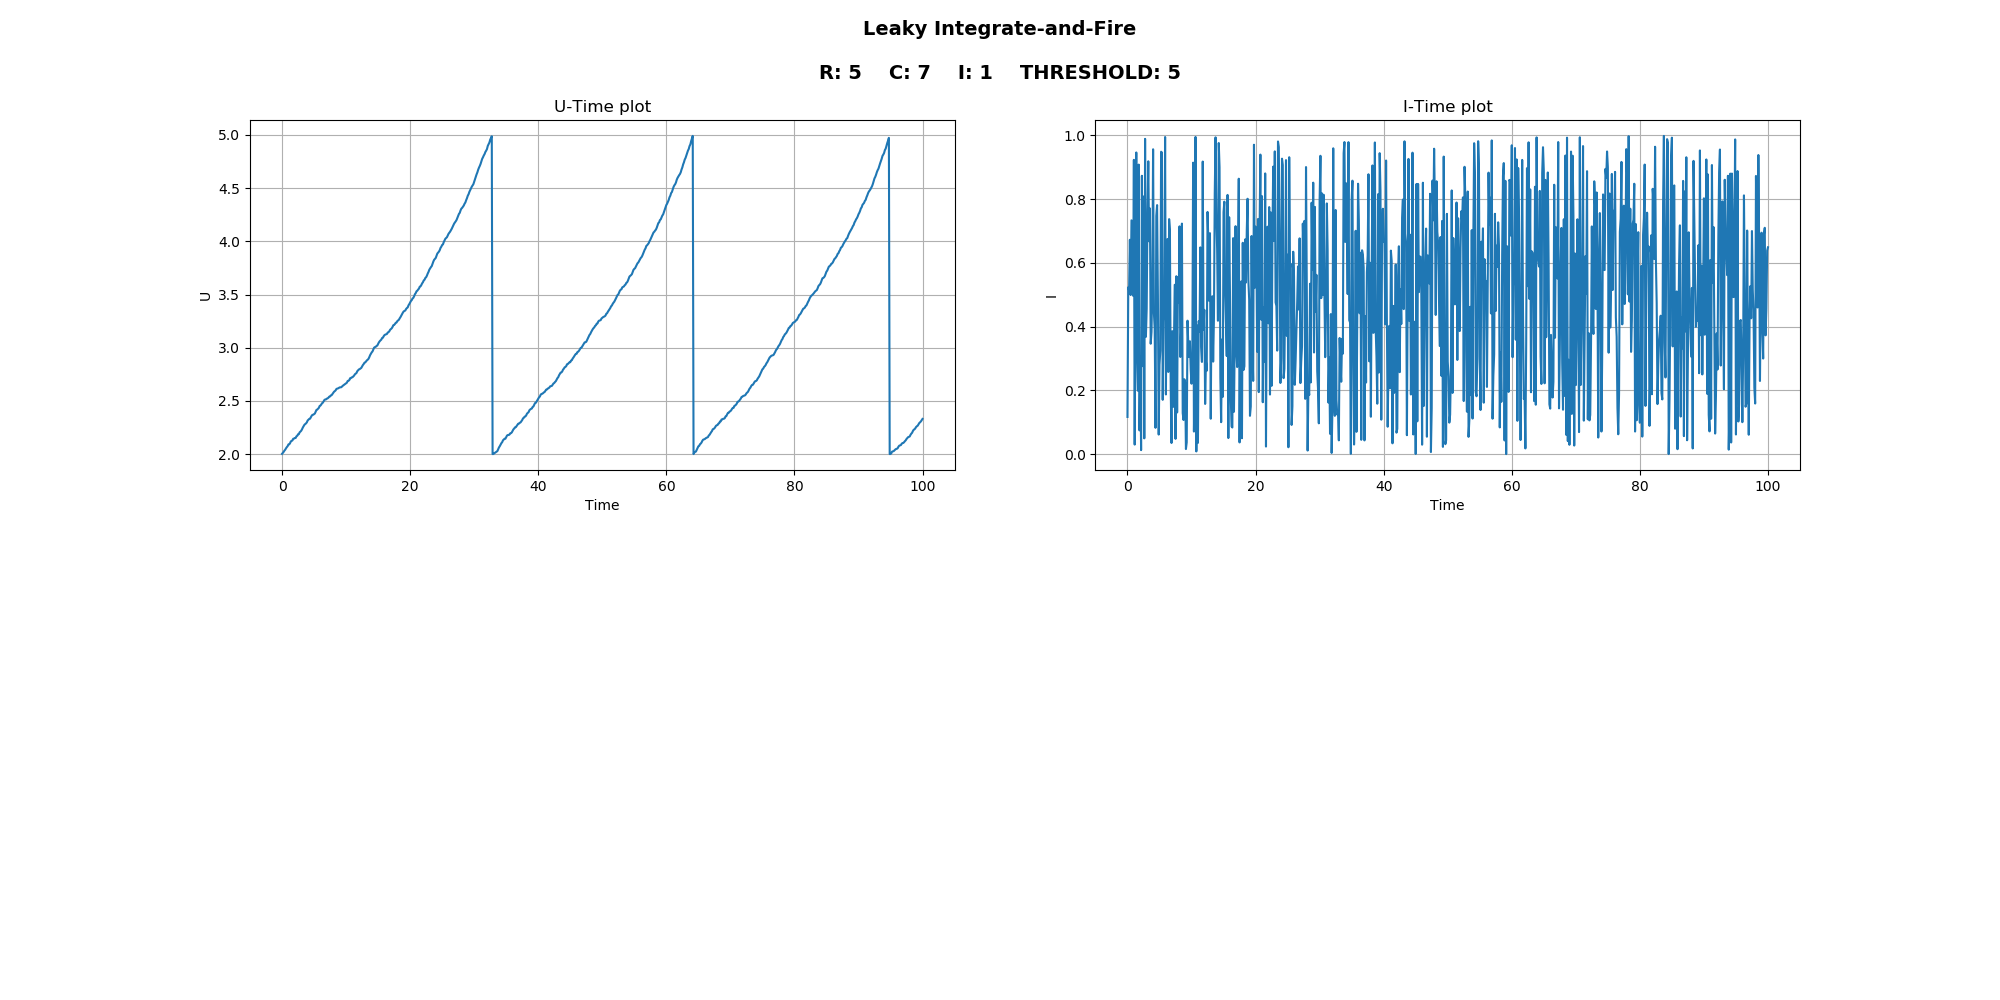
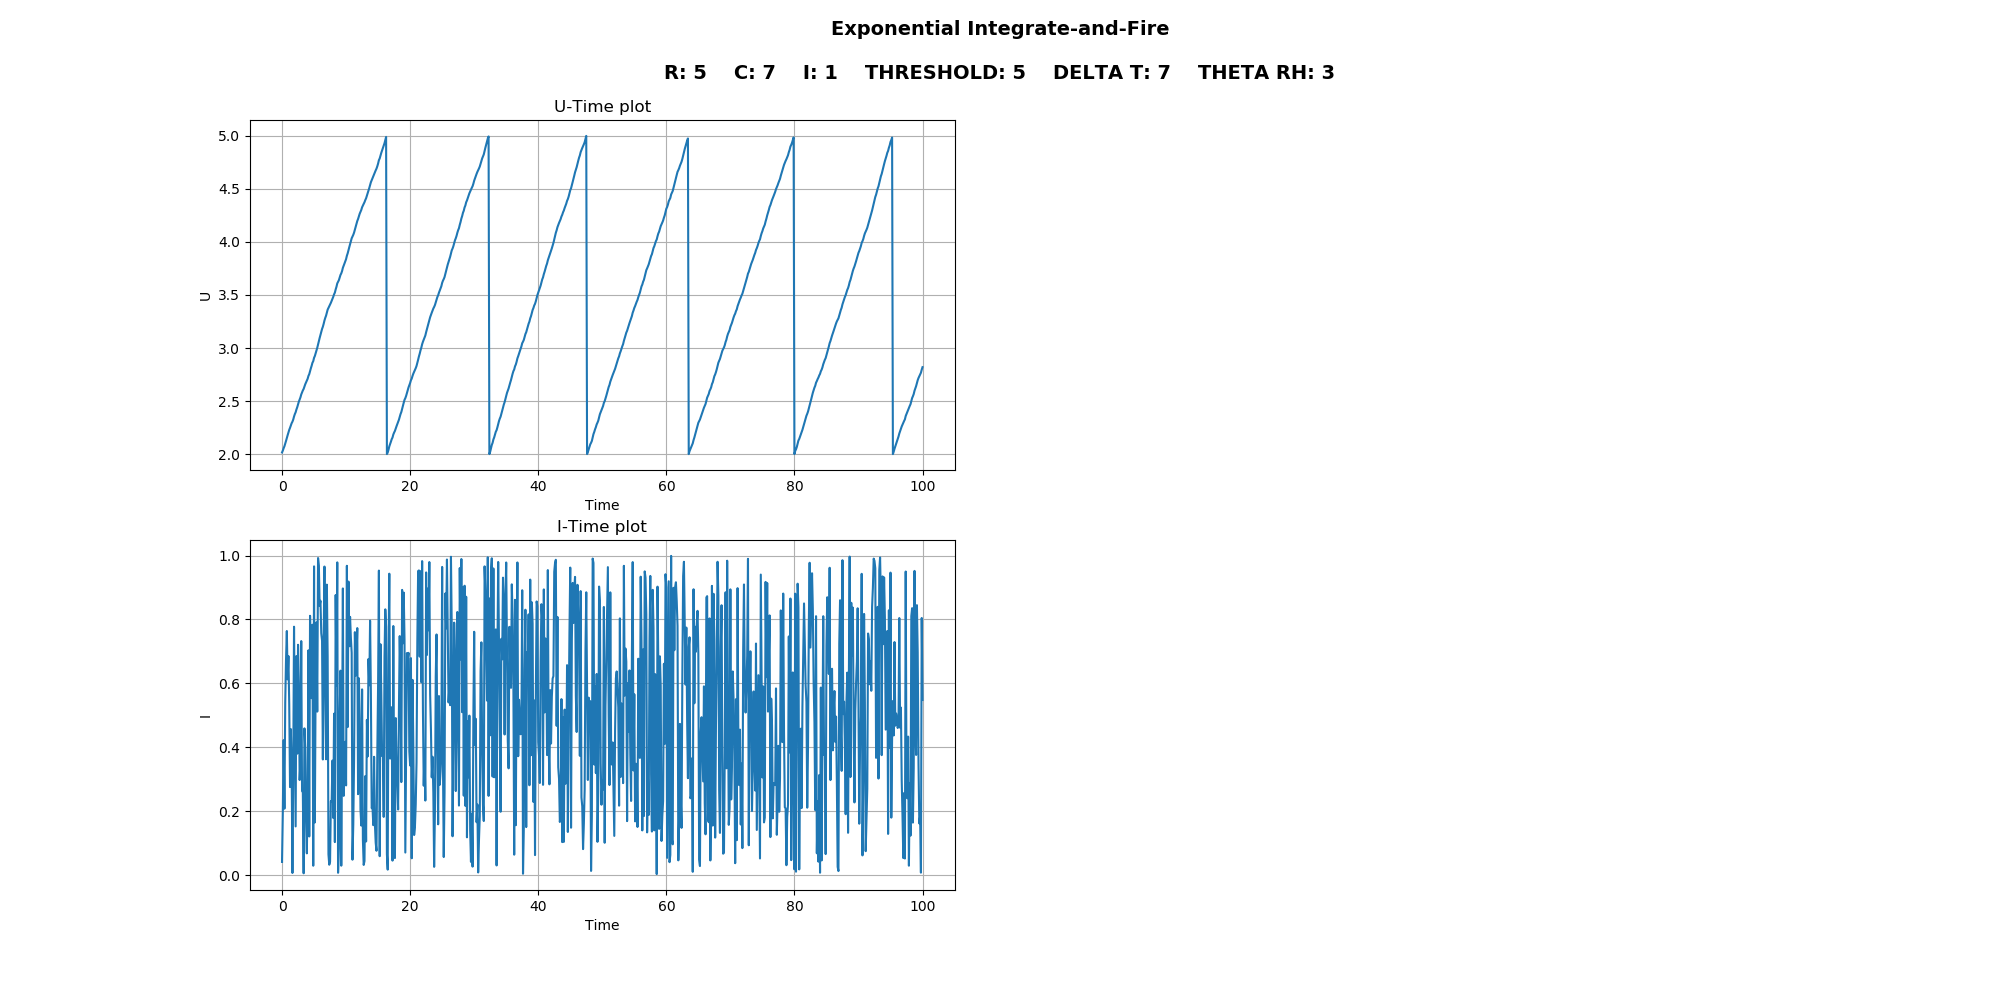
exp f i fix

diff --git a/Exponential Leaky Integrate-and-Fire.py b/Exponential Leaky Integrate-and-Fire.py
@@ -16,63 +16,81 @@ def i_random(x, i):
 
 def explif(time=100, steps=0.125, i_function=i_interval, u_rest=0, r=1, c=10, i=5, threshold=2, delta_t=2, theta_rh=2,
            f_i_plot=False,
-           save_name="ELIF"):
+           save_name="none",
+           draw_plot=True):
     timer = np.arange(0, time + steps, steps)
     tm = r * c
     u = [u_rest] * len(timer)
     dt = steps
     i_input = [i_function(j, i) for j in timer]
 
+    spike_t = time
+    current_spike_time = 0
+
     # ELIF Model -> NEURONAL DYNAMICS [Wulfram_Gerstner,_Werner_M_Kistle] page 124
     for j in range(len(timer)):
         u[j] = u[j - 1] + (-u[j - 1] + r * i_input[j] + delta_t * math.exp((u[j - 1] - theta_rh) / delta_t)) / tm * dt
         if u[j] >= threshold or u[j] < u_rest:
             u[j] = u_rest
+            prev_spike_time = current_spike_time
+            current_spike_time = timer[j]
+            spike_t = min(spike_t, current_spike_time - prev_spike_time)
 
     # plotting
-    fig = figure(num=None, figsize=(20, 10))
-    fig.suptitle('Leaky Integrate-and-Fire\n\n' + "R: " + str(r) + "    C: " + str(c) + "    I: " + str(
-        i) + "    THRESHOLD: " + str(threshold), fontsize=14, fontweight='bold')
-    subplot(221)
-    plot(timer, u)
-    ylabel('U')
-    xlabel('Time')
-    title('U-Time plot')
-    grid(True)
-
-    subplot(222)
-    plot(timer, i_input)
-    ylabel('I')
-    xlabel('Time')
-    title('I-Time plot')
-    grid(True)
-
-    if f_i_plot:
-        i_x = np.arange(0, 5, 0.125)
-        i_y = [0] * len(i_x)
-        for j in range(len(i_x)):
-            try:
-                i_y[j] = 1 / (-1 * tm * (math.log(1 - (threshold - u_rest) / (r * j))))
-            except:
-                i_y[j] = 0
-        subplot(223)
-        plot(i_x, i_y)
-        ylabel('F')
-        xlabel('I')
-        title('F-I plot')
+    if draw_plot:
+        fig = figure(num=None, figsize=(20, 10))
+        fig.suptitle('Exponential Integrate-and-Fire\n\n' + "R: " + str(r) + "    C: " + str(c) + "    I: " + str(i)
+                     + "    THRESHOLD: " + str(threshold) + "    DELTA T: " + str(delta_t)
+                     + "    THETA RH: " + str(theta_rh),
+                     fontsize=14, fontweight='bold')
+        subplot(221)
+        plot(timer, u)
+        ylabel('U')
+        xlabel('Time')
+        title('U-Time plot')
         grid(True)
-    savefig('figures/{}.png'.format(save_name))
-    show()
+
+        subplot(223)
+        plot(timer, i_input)
+        ylabel('I')
+        xlabel('Time')
+        title('I-Time plot')
+        grid(True)
+
+        if f_i_plot:
+            i_x = np.arange(0, 5, 0.125)
+            i_y = [0] * len(i_x)
+            for j in range(len(i_x)):
+                try:
+                    i_y[j] = 1/ explif(time=time, steps=steps, i_function=i_function, u_rest=u_rest, r=r, c=c,
+                                        i=i_x[j],
+                                        threshold=threshold, delta_t=delta_t, theta_rh=theta_rh, f_i_plot=False,
+                                        save_name="none",
+                                        draw_plot=False)
+                except:
+                    i_y[j] = 0
+            subplot(222)
+            plot(i_x, i_y)
+            ylabel('F')
+            xlabel('I')
+            title('F-I plot')
+            grid(True)
+        if save_name != 'none':
+            savefig('figures/{}.png'.format(save_name))
+        show()
+
+    return spike_t
 
 
-explif(u_rest=2, r=1, c=10, i=5, threshold=7, f_i_plot=True, save_name="ELIF1")
-explif(u_rest=2, r=10, c=5, i=2, threshold=5, f_i_plot=True, save_name="ELIF2")
-explif(u_rest=2, r=5, c=7, i=1, threshold=5, f_i_plot=True, save_name="ELIF3")
-explif(u_rest=0, r=3, c=3, i=10, threshold=2, f_i_plot=True, save_name="ELIF4")
-explif(u_rest=1, r=2, c=4, i=7, threshold=50, f_i_plot=True, save_name="ELIF5")
+explif(u_rest=2, r=1, c=10, i=5, threshold=7, delta_t=2, theta_rh=2, f_i_plot=True, save_name="ELIF1")
+explif(u_rest=2, r=10, c=5, i=2, threshold=5, delta_t=4, theta_rh=3, f_i_plot=True, save_name="ELIF2")
+explif(u_rest=2, r=5, c=7, i=1, threshold=5, delta_t=7, theta_rh=3, f_i_plot=True, save_name="ELIF3")
+explif(u_rest=0, r=3, c=3, i=4, threshold=2, delta_t=4, theta_rh=1, f_i_plot=True, save_name="ELIF4")
+explif(u_rest=1, r=2, c=4, i=2, threshold=5, delta_t=3, theta_rh=3, f_i_plot=True, save_name="ELIF5")
+explif(u_rest=1, r=2, c=4, i=7, threshold=40, delta_t=5, theta_rh=10, f_i_plot=False, save_name="ELIF6")
 
-explif(u_rest=0, r=1, c=10, i=5, threshold=2, i_function=i_random, save_name="ELIF_random1")
-explif(u_rest=2, r=10, c=5, i=2, threshold=5, i_function=i_random, save_name="ELIF_random2")
-explif(u_rest=2, r=5, c=7, i=1, threshold=5, i_function=i_random, save_name="ELIF_random3")
-explif(u_rest=0, r=3, c=3, i=10, threshold=2, i_function=i_random, save_name="ELIF_random4")
-explif(u_rest=1, r=2, c=4, i=7, threshold=50, i_function=i_random, save_name="ELIF_random5")
+explif(u_rest=2, r=1, c=10, i=5, threshold=7, delta_t=2, theta_rh=2, i_function=i_random, save_name="ELIF_random1")
+explif(u_rest=2, r=10, c=5, i=2, threshold=5, delta_t=4, theta_rh=3, i_function=i_random, save_name="ELIF_random2")
+explif(u_rest=2, r=5, c=7, i=1, threshold=5, delta_t=7, theta_rh=3,i_function=i_random, save_name="ELIF_random3")
+explif(u_rest=0, r=3, c=3, i=4, threshold=2, delta_t=4, theta_rh=1, i_function=i_random, save_name="ELIF_random4")
+explif(u_rest=1, r=2, c=4, i=10, threshold=50, delta_t=3, theta_rh=10,i_function=i_random, save_name="ELIF_random5")

diff --git a/Leaky Integrate-and-Fire.py b/Leaky Integrate-and-Fire.py
@@ -39,7 +39,7 @@ def lif(time=100, steps=0.125, i_function=i_interval, u_rest=0, r=1, c=10, i=5, 
     title('U-Time plot')
     grid(True)
 
-    subplot(222)
+    subplot(223)
     plot(timer, i_input)
     ylabel('I')
     xlabel('Time')
@@ -54,7 +54,7 @@ def lif(time=100, steps=0.125, i_function=i_interval, u_rest=0, r=1, c=10, i=5, 
                 i_y[j] = 1 / (-1 * tm * (math.log(1 - (threshold - u_rest) / (r * j))))
             except:
                 i_y[j] = 0
-        subplot(223)
+        subplot(222)
         plot(i_x, i_y)
         ylabel('F')
         xlabel('I')
